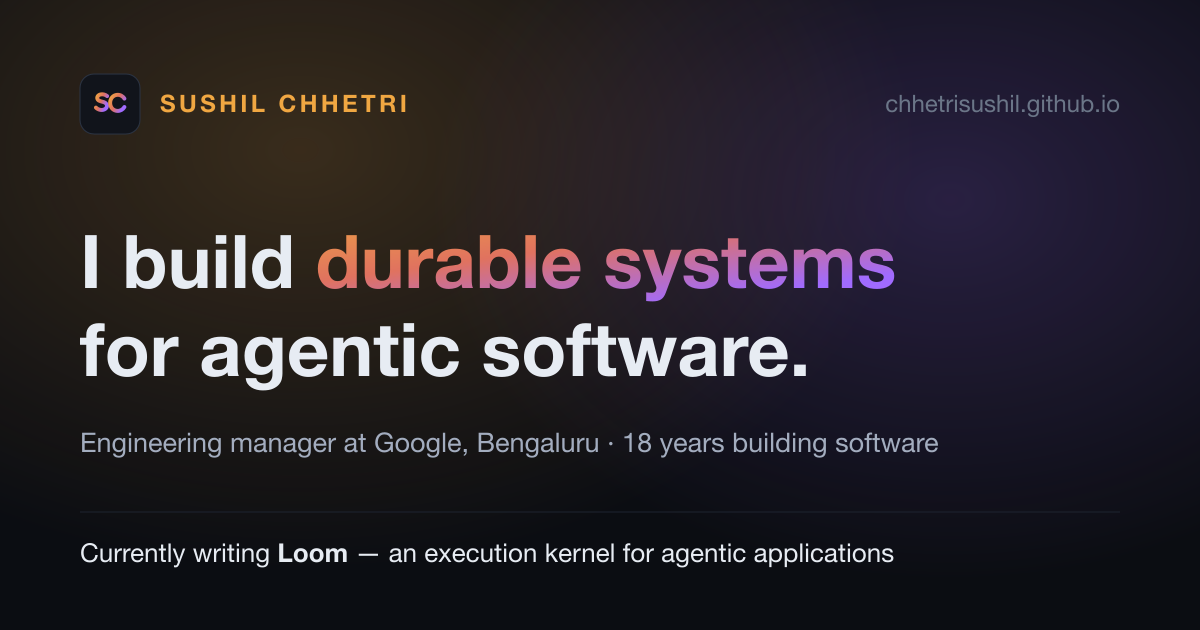
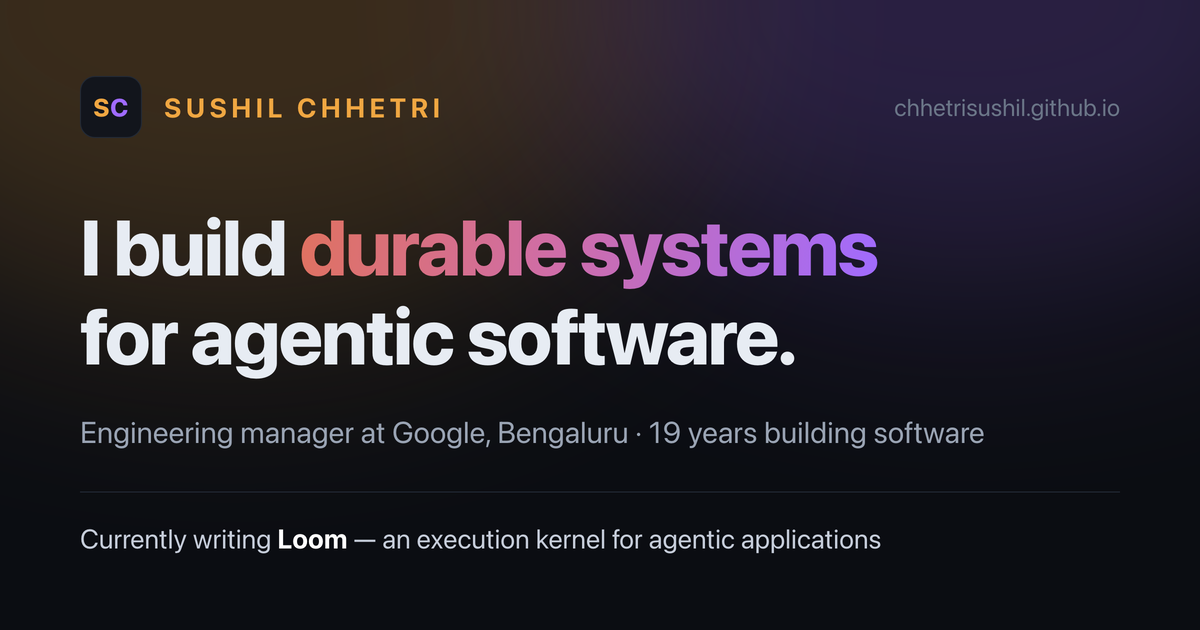
fix: nineteen years, not eighteen
The count appeared in four places — the hero subline, the About heading, the
About prose, and baked into og.png, where it was unreachable by search. So the
card now has a source: tools/og.html renders to og.png with the command in its
header comment, which is what let this correction reach the social preview at
all.

diff --git a/tools/og.html b/tools/og.html
@@ -1,0 +1,80 @@
+<!doctype html>
+<!--
+  Source for og.png — the social preview card.
+
+  Kept as a file rather than regenerated by hand each time: the card repeats facts that also
+  appear in index.html (role, years, what Loom is), and those drift the moment the only copy
+  lives inside a binary. Render with:
+
+    chrome-headless-shell --headless --disable-gpu --hide-scrollbars \
+      --screenshot=og.png --window-size=1200,630 --force-device-scale-factor=2 og.html
+    magick og.png -resize 1200x630 og.png     # supersampled down, so text stays crisp
+-->
+<meta charset="utf-8" />
+<style>
+  * { margin: 0; padding: 0; box-sizing: border-box; }
+  html, body { width: 1200px; height: 630px; }
+  body {
+    position: relative;
+    overflow: hidden;
+    background: #0b0d12;
+    font-family: ui-sans-serif, system-ui, -apple-system, "Helvetica Neue", Arial, sans-serif;
+    color: #e7ecf3;
+    -webkit-font-smoothing: antialiased;
+  }
+  /* Two off-canvas glows — amber top-left, violet top-right — the same pair the site's hero uses. */
+  .glow {
+    position: absolute;
+    border-radius: 50%;
+    filter: blur(90px);
+  }
+  .g1 { width: 900px; height: 620px; left: -220px; top: -300px; background: rgba(240,167,66,0.20); }
+  .g2 { width: 820px; height: 560px; right: -180px; top: -280px; background: rgba(160,107,255,0.20); }
+
+  .card { position: relative; height: 100%; padding: 76px 80px; display: flex; flex-direction: column; }
+
+  .top { display: flex; align-items: center; justify-content: space-between; }
+  .brand { display: flex; align-items: center; gap: 22px; }
+  .mark {
+    width: 62px; height: 62px; border-radius: 15px;
+    background: #12151c; border: 1px solid #232a36;
+    display: grid; place-items: center;
+    font-weight: 800; font-size: 25px; letter-spacing: 0.02em;
+  }
+  .mark .s { color: #f0a742; }
+  .mark .c { color: #a06bff; }
+  .name { font-size: 27px; font-weight: 700; letter-spacing: 0.16em; color: #f0a742; }
+  .host { font-size: 24px; color: #6b7688; }
+
+  .head { margin-top: auto; font-size: 78px; line-height: 1.14; font-weight: 800; letter-spacing: -0.022em; }
+  .grad {
+    background: linear-gradient(100deg, #e0725f 0%, #cf6da8 45%, #a06bff 100%);
+    -webkit-background-clip: text;
+    background-clip: text;
+    color: transparent;
+  }
+  .sub { margin-top: 34px; font-size: 30px; color: #9aa4b4; }
+
+  .rule { margin: 42px 0 0; border-top: 1px solid #232a36; }
+  .foot { margin-top: 30px; font-size: 27px; color: #c7cedb; }
+  .foot b { color: #fff; font-weight: 700; }
+</style>
+
+<div class="glow g1"></div>
+<div class="glow g2"></div>
+
+<div class="card">
+  <div class="top">
+    <div class="brand">
+      <div class="mark"><span><span class="s">S</span><span class="c">C</span></span></div>
+      <div class="name">SUSHIL CHHETRI</div>
+    </div>
+    <div class="host">chhetrisushil.github.io</div>
+  </div>
+
+  <h1 class="head">I build <span class="grad">durable systems</span><br />for agentic software.</h1>
+  <p class="sub">Engineering manager at Google, Bengaluru &middot; 19 years building software</p>
+
+  <div class="rule"></div>
+  <p class="foot">Currently writing <b>Loom</b> &mdash; an execution kernel for agentic applications</p>
+</div>

diff --git a/index.html b/index.html
@@ -157,7 +157,7 @@
             deterministic replay and honest failure semantics, not prompt plumbing.
           </p>
           <p class="meta">
-            Engineering manager at Google, in Bengaluru · 18 years building software · currently
+            Engineering manager at Google, in Bengaluru · 19 years building software · currently
             writing <a href="#loom">Loom</a>
           </p>
           <div class="cta">
@@ -264,10 +264,10 @@
       <!-- About ------------------------------------------------------------ -->
       <section id="about" class="shell block">
         <p class="kicker">About</p>
-        <h2>Eighteen years, mostly on the parts that have to keep working</h2>
+        <h2>Nineteen years, mostly on the parts that have to keep working</h2>
         <p class="body">
           I am an engineering manager at Google, based in Bengaluru. I studied information
-          technology at the University of Mumbai, and I have spent about eighteen years building
+          technology at the University of Mumbai, and I have spent about nineteen years building
           software — long enough to have watched several confident architectures meet production
           and lose.
         </p>
